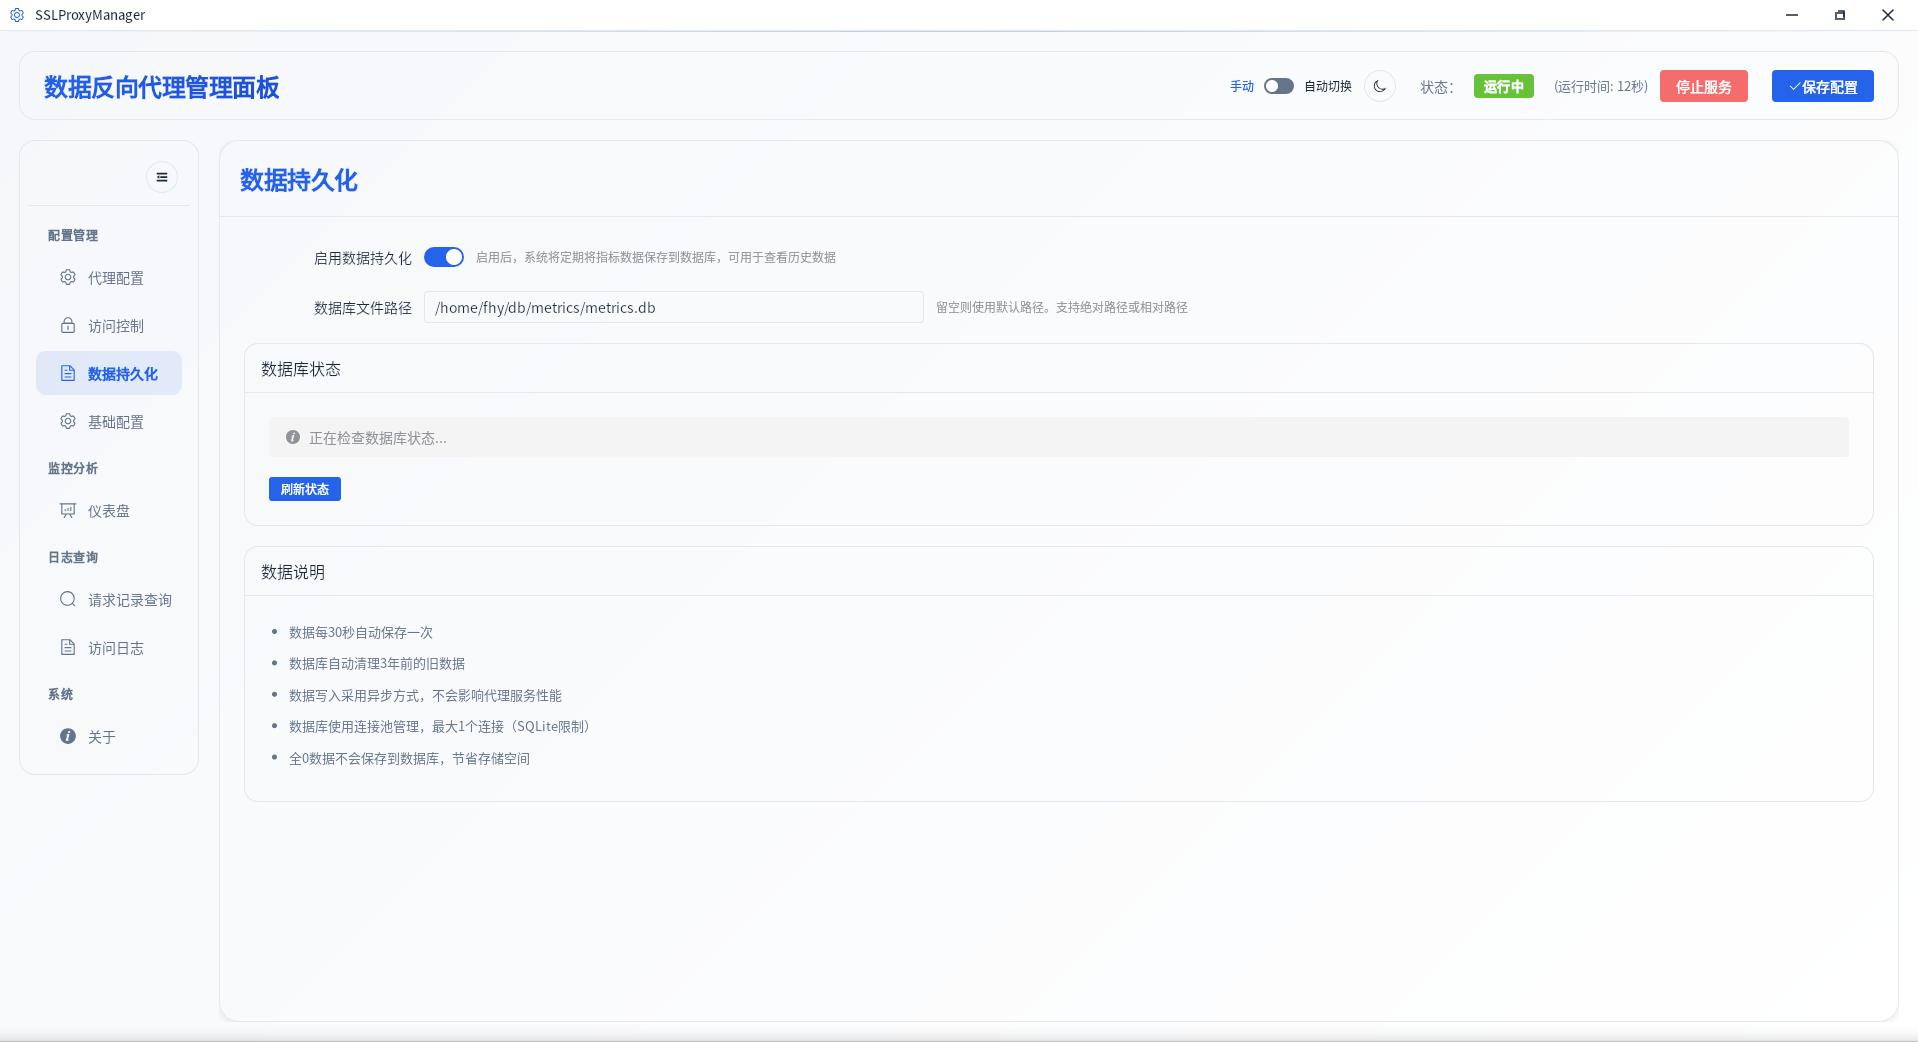
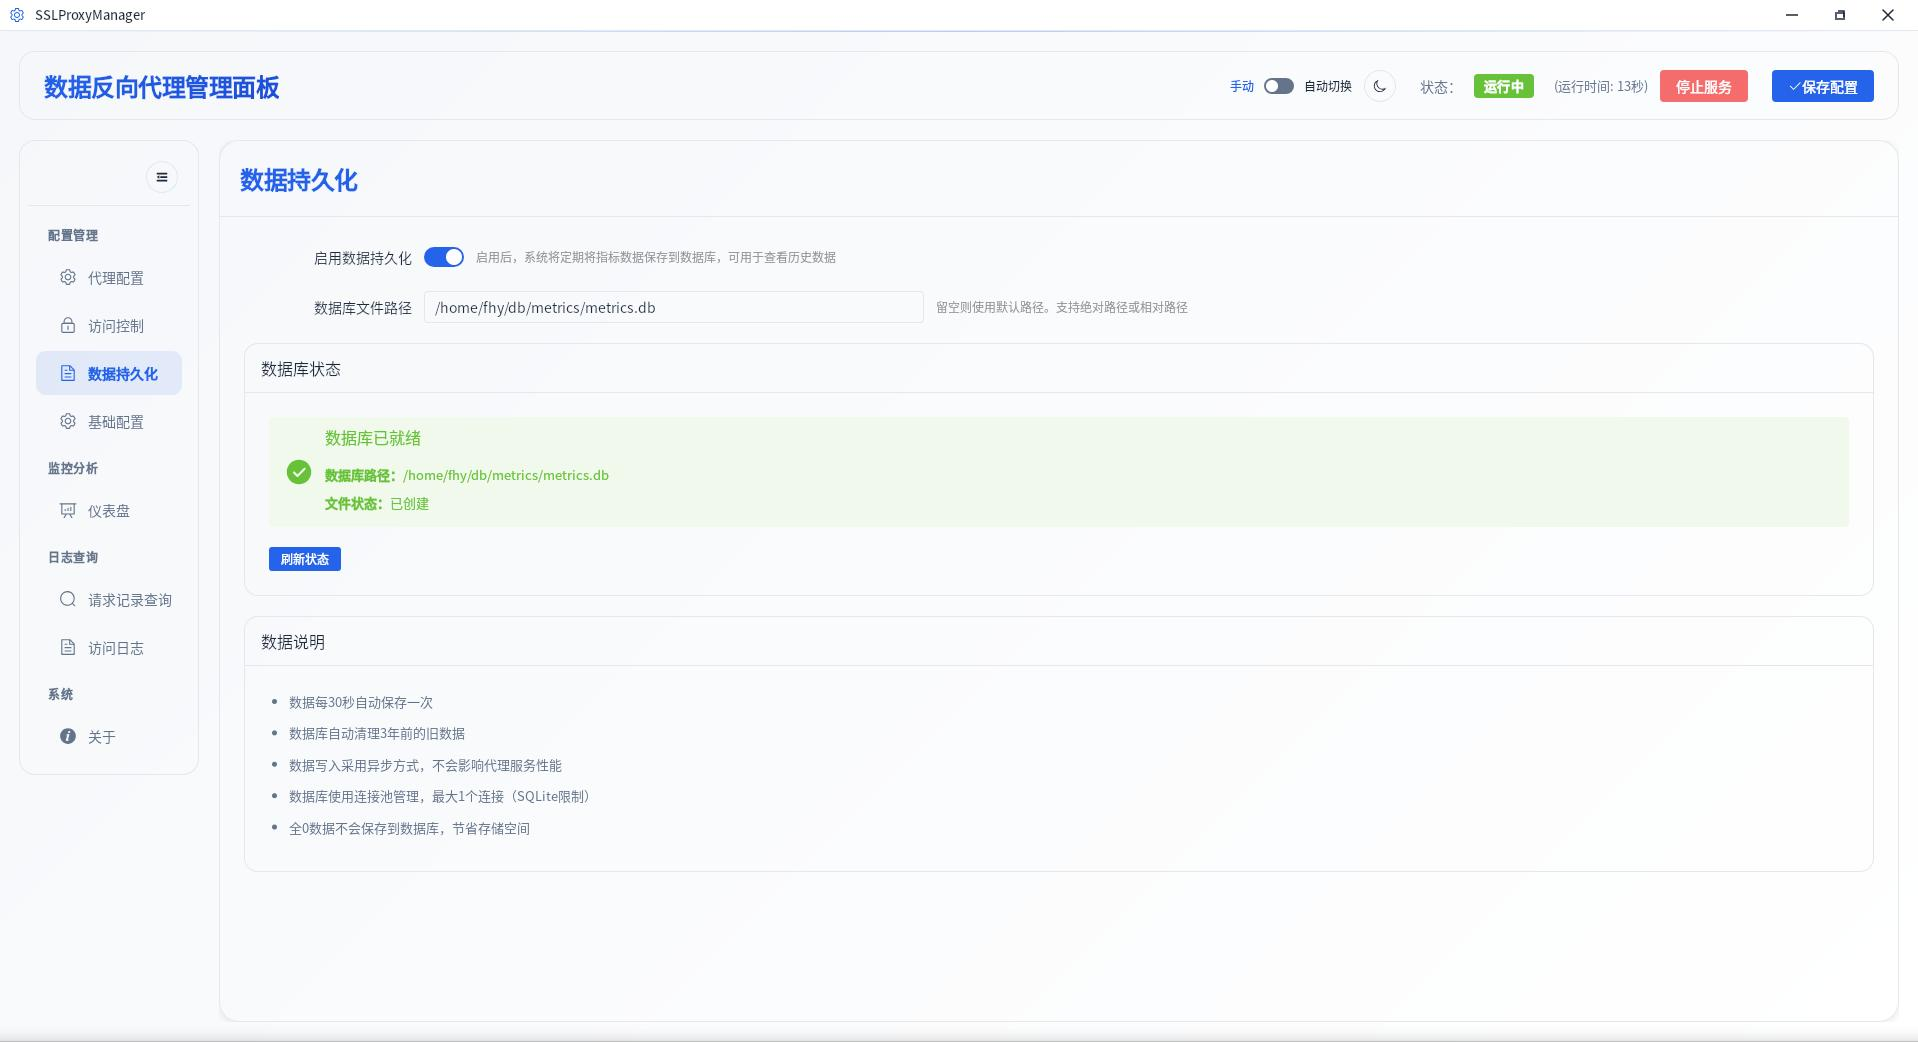
数据库状态查询

Changed region(s): [[0.123, 0.5835, 0.3076, 0.7985], [0.123, 0.3992, 0.3076, 0.4914], [0.123, 0.5221, 0.1846, 0.5528]]

diff --git a/src/metrics.rs b/src/metrics.rs
@@ -363,18 +363,54 @@ pub async fn init_db(db_path: String) -> Result<()> {
 #[derive(Debug, Clone, Serialize, Deserialize)]
 pub struct MetricsDBStatus {
     pub enabled: bool,
-    pub db_path: String,
-    pub connected: bool,
+    pub initialized: bool,
+    pub path: String,
     pub error: Option<String>,
+    pub file_exists: bool,
+    pub dir_exists: bool,
+    pub dir_writable: bool,
+    pub message: Option<String>,
 }
 
 pub fn get_metrics_db_status() -> MetricsDBStatus {
-    let enabled = DB_POOL.read().is_some();
+    // enabled: 是否启用了持久化（即 DB 已初始化并可用于写入/查询）
+    let initialized = DB_POOL.read().is_some();
+    let path = DB_PATH.read().clone();
+
+    // 默认状态
+    let mut file_exists = false;
+    let mut dir_exists = false;
+    let mut dir_writable = false;
+    let mut message: Option<String> = None;
+
+    if !path.is_empty() {
+        let p = PathBuf::from(&path);
+        if let Some(dir) = p.parent() {
+            dir_exists = dir.exists();
+            // 尽量判断目录可写；如果目录不存在则为 false
+            dir_writable = dir_exists && std::fs::OpenOptions::new()
+                .create(true)
+                .append(true)
+                .open(dir.join(".writable_check"))
+                .and_then(|_| std::fs::remove_file(dir.join(".writable_check")))
+                .is_ok();
+        }
+        file_exists = p.exists();
+
+        if initialized && !file_exists && dir_exists && dir_writable {
+            message = Some("数据库文件尚未创建，等待首次写入后生成".to_string());
+        }
+    }
+
     MetricsDBStatus {
-        enabled,
-        db_path: DB_PATH.read().clone(),
-        connected: enabled,
+        enabled: initialized,
+        initialized,
+        path,
         error: DB_ERROR.read().clone(),
+        file_exists,
+        dir_exists,
+        dir_writable,
+        message,
     }
 }
 
